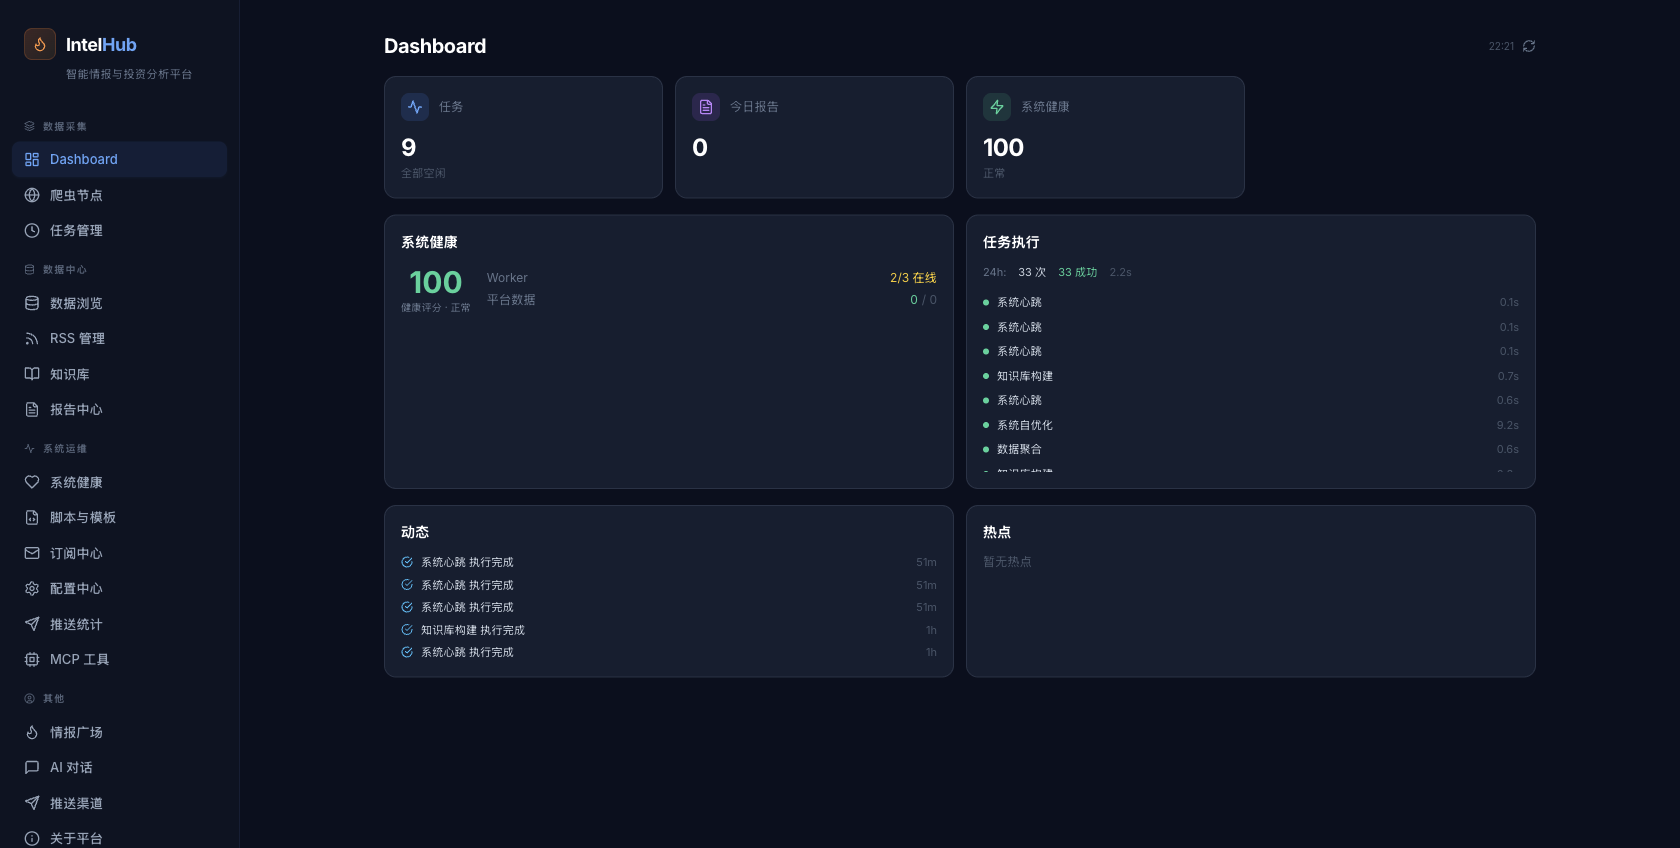
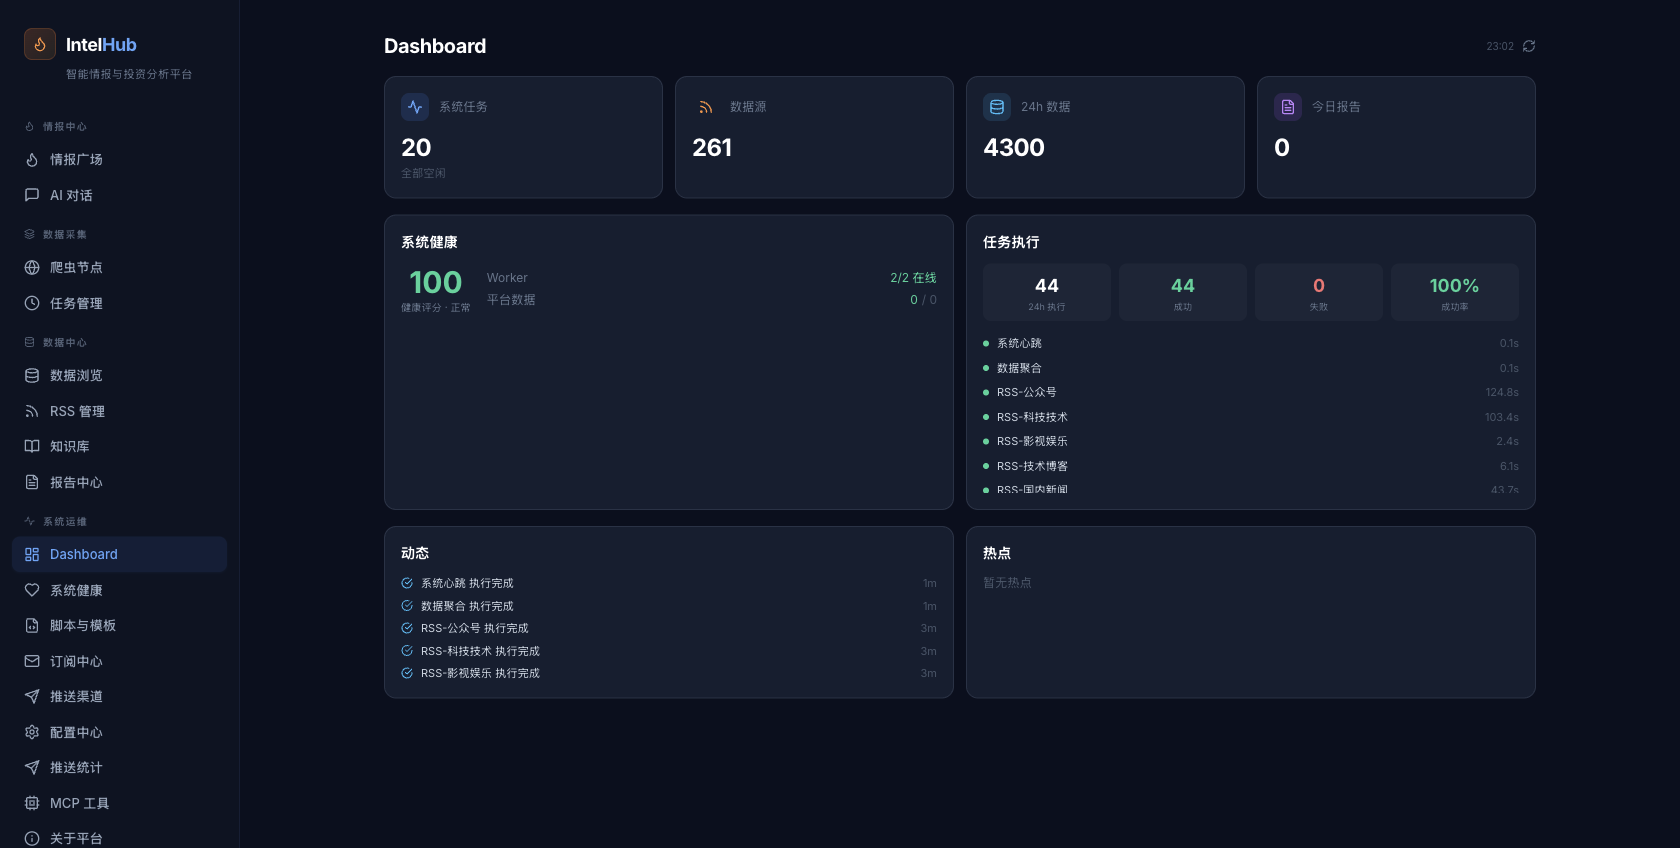
feat: enrich dashboard with 4 stat cards and real data screenshots
- Add RSS sources count and 24h data items cards (4 cards total)
- Add task execution stats grid (24h runs/success/fail/rate)
- Faster dashboard refresh (30s interval)
- Backend: add rss_sources + data_items_24h to dashboard API
- New screenshots with real data

diff --git a/frontend/src/pages/Dashboard.jsx b/frontend/src/pages/Dashboard.jsx
@@ -1,7 +1,7 @@
 import { useEffect, useState, useCallback } from 'react'
 import { api } from '../api/client'
 import { Activity, FileText, RefreshCw, AlertTriangle,
-  CheckCircle, Zap } from 'lucide-react'
+  CheckCircle, Zap, Database, Rss, TrendingUp } from 'lucide-react'
 import clsx from 'clsx'
 
 const relTime = (iso) => {
@@ -92,22 +92,34 @@ function SystemHealth({ data }) {
 
 function TaskExec({ data }) {
   const { recent_runs, last_24h, last_failures } = data
+  const successRate = last_24h?.total > 0 ? Math.round((last_24h.done || 0) / last_24h.total * 100) : null
 
   return (
     <div className="bg-slate-800/60 rounded-xl p-4 border border-slate-700/60 h-full">
       <h3 className="text-white text-sm font-semibold mb-3">任务执行</h3>
 
-      <div className="flex items-center gap-3 mb-3 text-[11px]">
-        <span className="text-slate-500">24h:</span>
-        <span className="text-slate-300">{last_24h.total} 次</span>
-        <span className="text-emerald-400">{last_24h.done} 成功</span>
-        {last_24h.failed > 0 && <span className="text-red-400">{last_24h.failed} 失败</span>}
-        <span className="text-slate-600">
-          {last_24h.avg_duration_ms ? `${(last_24h.avg_duration_ms / 1000).toFixed(1)}s` : ''}
-        </span>
+      <div className="grid grid-cols-4 gap-2 mb-3">
+        <div className="bg-white/[0.03] rounded-lg p-2 text-center">
+          <div className="text-lg font-bold text-white">{last_24h?.total || 0}</div>
+          <div className="text-[9px] text-slate-500">24h 执行</div>
+        </div>
+        <div className="bg-white/[0.03] rounded-lg p-2 text-center">
+          <div className="text-lg font-bold text-emerald-400">{last_24h?.done || 0}</div>
+          <div className="text-[9px] text-slate-500">成功</div>
+        </div>
+        <div className="bg-white/[0.03] rounded-lg p-2 text-center">
+          <div className="text-lg font-bold text-red-400">{last_24h?.failed || 0}</div>
+          <div className="text-[9px] text-slate-500">失败</div>
+        </div>
+        <div className="bg-white/[0.03] rounded-lg p-2 text-center">
+          <div className={clsx("text-lg font-bold", successRate !== null && successRate >= 90 ? 'text-emerald-400' : successRate !== null && successRate < 70 ? 'text-red-400' : 'text-white')}>
+            {successRate !== null ? `${successRate}%` : '-'}
+          </div>
+          <div className="text-[9px] text-slate-500">成功率</div>
+        </div>
       </div>
 
-      <div className="space-y-1 max-h-[180px] overflow-y-auto">
+      <div className="space-y-1 max-h-[160px] overflow-y-auto">
         {recent_runs.slice(0, 10).map(r => (
           <div key={r.id} className="flex items-center gap-2 text-[11px] py-0.5">
             <div className={clsx("w-1.5 h-1.5 rounded-full shrink-0",
@@ -126,7 +138,7 @@ function TaskExec({ data }) {
         )}
       </div>
 
-      {last_failures.length > 0 && (
+      {last_failures?.length > 0 && (
         <div className="mt-2 pt-2 border-t border-slate-700/50">
           <div className="text-[10px] text-red-400/60 mb-1">最近失败</div>
           {last_failures.slice(0, 3).map((f, i) => (
@@ -206,7 +218,7 @@ export default function Dashboard() {
         const c = localStorage.getItem('intelhub_dashboard_v2')
         if (c) {
           const cached = JSON.parse(c)
-          if (cached.ts && Date.now() - cached.ts < 60000) {
+          if (cached.ts && Date.now() - cached.ts < 30000) {
             setData(cached.d)
             setLoading(false)
             setLastRefresh(new Date(cached.ts))
@@ -229,7 +241,7 @@ export default function Dashboard() {
   useEffect(() => { loadData() }, [loadData])
 
   useEffect(() => {
-    const timer = setInterval(() => loadData(false), 60000)
+    const timer = setInterval(() => loadData(false), 30000)
     return () => clearInterval(timer)
   }, [loadData])
 
@@ -256,11 +268,11 @@ export default function Dashboard() {
       </div>
 
       <div className="grid grid-cols-2 lg:grid-cols-4 gap-3">
-        <StatCard icon={Activity} label="任务" value={s.tasks_total || 0}
+        <StatCard icon={Activity} label="系统任务" value={s.tasks_total || 0}
           sub={s.tasks_running > 0 ? `${s.tasks_running} 运行中` : '全部空闲'} color="blue" />
+        <StatCard icon={Rss} label="数据源" value={s.rss_sources || 0} color="orange" />
+        <StatCard icon={Database} label="24h 数据" value={s.data_items_24h || 0} color="sky" />
         <StatCard icon={FileText} label="今日报告" value={s.reports_today || 0} color="purple" />
-        <StatCard icon={Zap} label="系统健康" value={data.system_health?.health_score ?? '-'}
-          sub={data.system_health?.status === 'ok' ? '正常' : '异常'} color="emerald" />
       </div>
 
       <div className="grid grid-cols-1 lg:grid-cols-2 gap-3">

diff --git a/app/api/admin.py b/app/api/admin.py
@@ -40,6 +40,32 @@ def dashboard():
         "SELECT COUNT(*) FROM reports WHERE date(generated_at) = :today"
     ), {'today': today_str}).scalar() or 0
 
+    rss_sources = db.session.execute(text(
+        "SELECT COUNT(*) FROM rss_sources WHERE enabled = 1"
+    )).scalar() or 0
+
+    data_items_today = 0
+    try:
+        raw_dir = os.path.join(_BASE_DIR, 'data', 'raw')
+        if os.path.exists(raw_dir):
+            import glob
+            for f in glob.glob(os.path.join(raw_dir, '**', '*.json'), recursive=True):
+                try:
+                    mtime = os.path.getmtime(f)
+                    if mtime >= (now - timedelta(hours=24)).timestamp():
+                        with open(f, 'r') as fp:
+                            content = json.load(fp)
+                            if isinstance(content, list):
+                                data_items_today += len(content)
+                            elif isinstance(content, dict):
+                                for v in content.values():
+                                    if isinstance(v, list):
+                                        data_items_today += len(v)
+                except Exception:
+                    pass
+    except Exception:
+        pass
+
     recent_runs = []
     for row in db.session.execute(text(
         "SELECT tr.id, st.name, tr.status, tr.started_at, tr.duration_ms, tr.trigger_type "
@@ -138,6 +164,8 @@ def dashboard():
             'tasks_total': tasks_enabled,
             'tasks_running': running_row,
             'reports_today': reports_today,
+            'rss_sources': rss_sources,
+            'data_items_24h': data_items_today,
         },
         'system_health': {
             'health_score': health_score,
